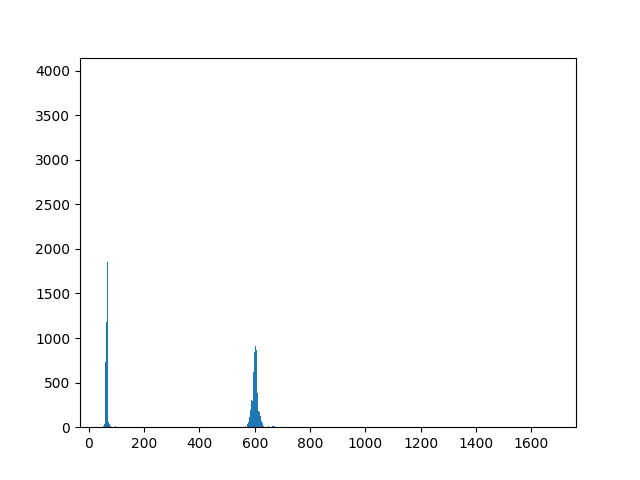
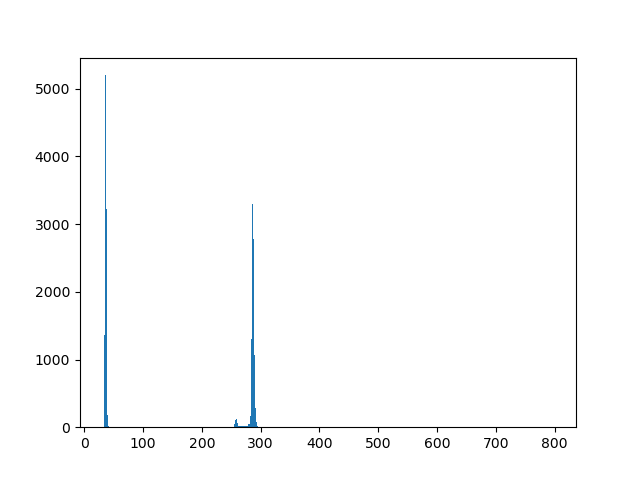
Make changes on plotter

diff --git a/task0/plotter.py b/task0/plotter.py
@@ -1,18 +1,39 @@
 import sys
 import matplotlib.pyplot as plt
 
-times = []
+hit_times = []
+miss_times = []
+
 for l in sys.stdin:
     triplet = l.split(",")
+    label = triplet[0]
     t = int(triplet[1])
-    times.append(t)
+    
+    if label == "hit":
+        hit_times.append(t)
+    elif label == "miss":
+        miss_times.append(t)
 
-if not times:
+if not hit_times and not miss_times:
     print("Task 0 not implemented it seems...")
     exit(1) 
 
-nr_bins = (max(times) - min(times) + 50) // 2
-plt.hist(times, bins=nr_bins)
+# Combine all times to determine bin range
+all_times = hit_times + miss_times
+if all_times:
+    nr_bins = (max(all_times) - min(all_times) + 50) // 2
+    
+    # Create histogram with both datasets
+    plt.hist([hit_times, miss_times], bins=nr_bins, 
+             color=['blue', 'orange'], 
+             label=['Cache Hit', 'Cache Miss'],
+             alpha=0.7)
+    
+    plt.legend()
+    plt.xlabel('Time (cycles)')
+    plt.ylabel('Frequency')
+    plt.title('Cache Hit vs Miss Timing Distribution')
+    
 plt.savefig("hist.png")
 print("Histogram saved as hist.png.")
 

diff --git a/task0/main.c b/task0/main.c
@@ -57,14 +57,13 @@ int main(int argc, char** argv) {
     // cahce hit
     for (size_t i = 0; i < NUM_SAMPLES; i++) {
         size_t hit_time = cache_hit();
-        printf("0,%zu\n", hit_time);
+        printf("hit,%zu\n", hit_time);
     }
 
     // cache miss
     for (size_t i = 0; i < NUM_SAMPLES; i++) {
         size_t miss_time = cache_miss();
-        if (miss_time < 2000)  // filter outliers
-            printf("0,%zu\n", miss_time);
+        printf("miss,%zu\n", miss_time);
     }
     return 0;
 }
